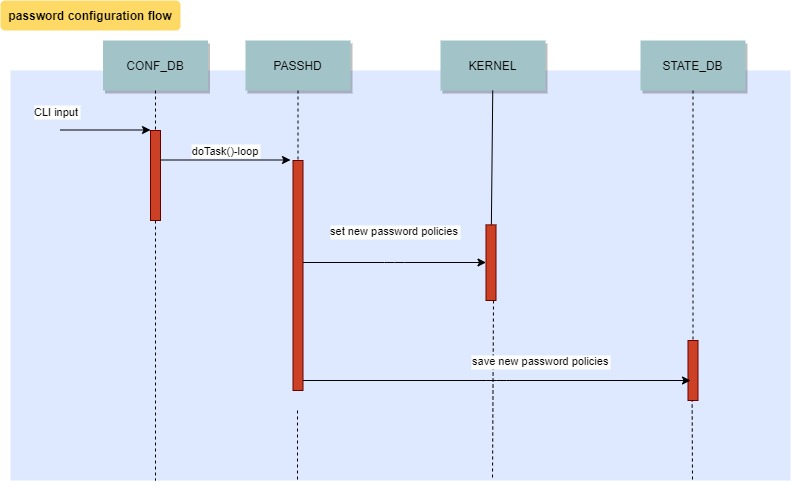
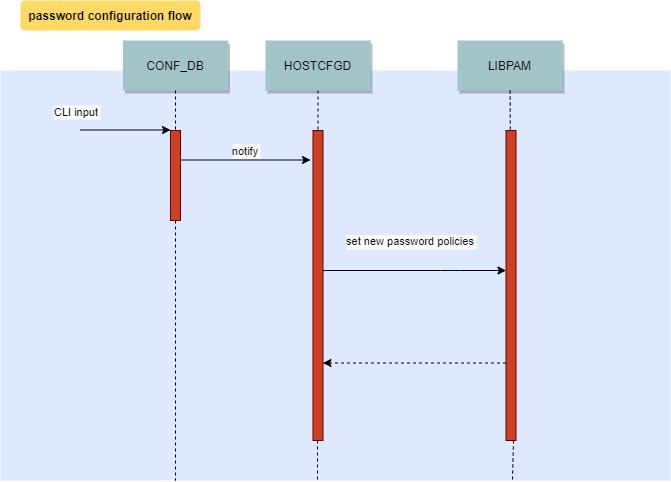
add more description in the init flow chapter, use hostcfgd daemon instead creating a new daemon and remove the STATE_DB

diff --git a/doc/passw_hardening/hld_password_hardening.md b/doc/passw_hardening/hld_password_hardening.md
@@ -71,7 +71,7 @@ Therefore - in order to further improve and harden the switch - a secure mechani
 
 ###  1.6. <a name='ArchitectureDesign'></a>Architecture Design
 Arc design diagram\
-![passh_arc_sonic](passh_arc_sonic.drawio.png)
+![passh_arc_sonic](passh_arc_sonic.jpg)
 
 (flow description in the chapter below)
 
@@ -101,13 +101,15 @@ See linux 3d party component chapter for more description
 ![password hardening flow](ph_diagram.jpg)
 
 ####  1.7.1. <a name='Flowdescription:'></a>Flow description:
-Users by using Switch CLI will set new password/password configuration (see PW options below), the input will be saved in CONF_DB in PASSW_CONF_TABLE.\
-The daemon call PASSHD (password hardening daemon) listen to changes, parse the inputs and set the configuration to kernel by using pam-cracklib ,chage, pwhistory linux libs.
-After that, it will save the configuration and results in STATE_DB in PASSW_CONF_TABLE.
+When the feature is enabled, Users by using Sonic CLI will set new password policies/configuration (see PW options below) saving those in CONF_DB in PASSWH_TABLE.
+
+The daemon named hostcfgd daemon will be extended to listen to password hardening policies/configurations from PASSWH table, parse the inputs and set the new policies to PAM lib using pam-cracklib, chage, pwhistory libs.
 
 Note:
-The table PASSW_CONF_TABLE should reduce time consuming when users need to read configuration, because it will avoid to make additional calls to kernel.
 
+The Daemon is running in the host (without container) that matches this feature, because it is basically writing policies at PAM lib installed in the host.
+
+In addition, hostcfgd will avoid future conflicts with other feature related to PAM lib, because this daemon is also writing to PAM files for support other features, so it is better to save this convention and also manage the password hardening policies in this daemon.
 ####  1.7.2. <a name='PasswordHardeningConstrains'></a>Password Hardening Constrains
 The PW Hardening features will support different options by encapsulating cracklib, chage and pwhistory options according to the constrains definitions below.
 
@@ -206,14 +208,20 @@ For saving password with sha512, need to modify the /etc/pam.d/system-auth-a fil
 
 ###  1.8. <a name='InitFlow'></a>Init Flow
 ####  1.8.1. <a name='Compilation'></a>Compilation
-This feature will be disabled by default in the compilation stage, its meaning that it will be not compiled, only when the user will change the makefile setting to enable, this feature will be compiled.
+This feature will be disabled by default in the compilation stage, this means that it will be not compiled and will be added only when the user specifically adds the relevant compilation flag "INCLUDE_PASSWD" in sonic-buildimage/rules/config file.
 
-In addition, the feature will have CLI as a "plugin", meaning that when the feature is not compiled it will not appear in the CLI of the switch, and vice versa.
+In addition, the feature will have CLI as a "plugin", meaning that when the feature is not compiled will be not appear in the CLI of the switch, and vice versa.
+
+Feature enable details:
+If the user added the compilation flag to the image, a user can still enable or disable this feature.
+By default if the feature was compiled, the feature status will be enabled, meaning that the switch will boot with the feature enable.
+the enable default configuration can be founded in init_cfg.json.j2 file.
+In case, the user want to disable the feature it can be done by using the Sonic CLI (details in CLI chapter).
 
 ####  1.8.2. <a name='Dependencies'></a>Dependencies
-Service dependencies: DB container, INIT_CONF and NTP service.
-Description:
-Password Hardening Daemon, the service that triggers this daemon, should start after DB containers start.
+Service dependencies: same dependencies as HOSTCFGD, INIT_CONF and NTP service.
+
+Note:
 NTP service should be secure, because it can influence expiration time of some policies.
 
 ####  1.8.3. <a name='FeatureDefault'></a>Feature Default
@@ -236,13 +244,6 @@ special class: True
 Notes:
 -  Old users (existing users before feature was enabled) will not be influenced by this feature, only new users will have to set passwords according to the password hardening policies, or old user when changing to new password will be force to be according the new policies.
 -  Default password of the system will remained with default value even when the feature is enable. It will be secure password only when the user decide to change the password.
-####  1.8.4. <a name='Howthedaemonworksinternally:'></a>How the daemon works internally:
-In case the user decides to compile the feature, the password hardening daemon will be started and running always as a service.
-The process/daemon always running, but can be in sleep mode, the process is checking that the "enable" field in CONF_DB table PASSWH is "True", this value it was assign in the init flow by default, so only in case that the user change the field "enable" to "False" the process will be in sleep, waiting to be "awake" when the field will be change back to enable.
-
-Notes:
--  The service/process will be run from the host (not in a docker).
--  This approach can support reset of the system, because the daemon can automatically verify if he should be awake or not.
 
 ###  1.9. <a name='SAIAPI'></a>SAI API
 no changed.
@@ -265,12 +266,10 @@ PASSWH:
 	"digit_class": {{True/False}}
 	"special_class": {{True/False}}
 ```
-Note: similar table for PASSWH_STATUS in STATE_DB
-
 ####  1.10.2. <a name='ConfigDBschemas'></a>ConfigDB schemas
 
 ```
-; Defines schema for PASSWH configuration attributes (PASSWH table & PASSW_STATUS table have same schema)
+; Defines schema for PASSWH configuration attributes in PASSWH table:
 key                                   = PASSWH:name             ;password hardening configuration
 ; field                               = value
 FEATURE_ENABLE                        = "True" / "False"        ; Feature feature enable/disable
@@ -576,32 +575,6 @@ The ConfigDB will be extended with next objects:
 	}
 }
 ```
-The StateDB will be extended with table PASSW_STATUS with similar objects than PASSWH table:
-
-```json
-{
-	"PASSWH_STATUS": {
-		"enable": "True",
-		"expiration": "30",
-		"expiration_warning": "10",
-		"history": "10",
-		"len_max": "30",
-		"len_min": "15",
-		"username_passw_match": "True",
-		"lower class": "True",
-		"upper class": "True",
-		"digit class": "True",
-		"special class": "True",
-	}
-}
-```
-
-Notes:
-
-Similar fields will be saved in PASSW_TABLE in CONF_DB than in PASSWH_STATUS_TABLE in STATE_DB.\
-The main difference is that CONF_DB contains values requested by the user, when STATE_DB contain the values after getting the status from kernel.
-So when user will use "show" cli commands most of them will get the answer from STATE_DB, instead to do a system call again.
-For example, if some configuration set by the user fail to be configured in the linux kernel the STATE_DB will have the actual status/(state) of the configuration, and CONF_DB will still have the user configuration value requested.
 
 
 ###  1.11. <a name='WarmbootandFastbootDesignImpact'></a>Warmboot and Fastboot Design Impact
@@ -616,6 +589,9 @@ LDAP/Radius/Tacacs is under customer responsibility.
 When user with the correspond permission is doing upgrade from image with password hardening enable to password enable as well, the configuration related to the feature should be remain the same as was set before the update.
 
 When user is doing upgrade from image with password hardening feature disable to enable, old password will remain exactly as was set before, the feature is setting rules/policies to new passwords or to new users, so old passwords will remained as was set before.
+
+Upgrade image from feature enable to image with feature disable, from the security POV should assume that the user that is doing this image update have the corresponding permissions.
+From the feature POV, old password records that were set using the feature will remain the same, and new passwords will be set without the password hardening policies, because the feature is disable in the new image.
 
 Note:
 First time, the default password will remained the same, even when the feature is enabled, and if the user will like to have a secure password he will need to change it, and in result that the feature is enabled the current policies will required an strong password this time.
@@ -643,7 +619,7 @@ First time, the default password will remained the same, even when the feature i
 ##### Notes:
 - After creating a new policy is necessary to set a new password to a user to verify that the policy match the configured.
 - Valid values: could be random values from valid ranges.
-- The set configuration should be validate using the show command and also should be test from the STATE_DB.
+- The set configuration should be validate using the show command.
 
 ####  1.14.2. <a name='SystemTestcases'></a>System Test cases
 - Test all passwh policies together
